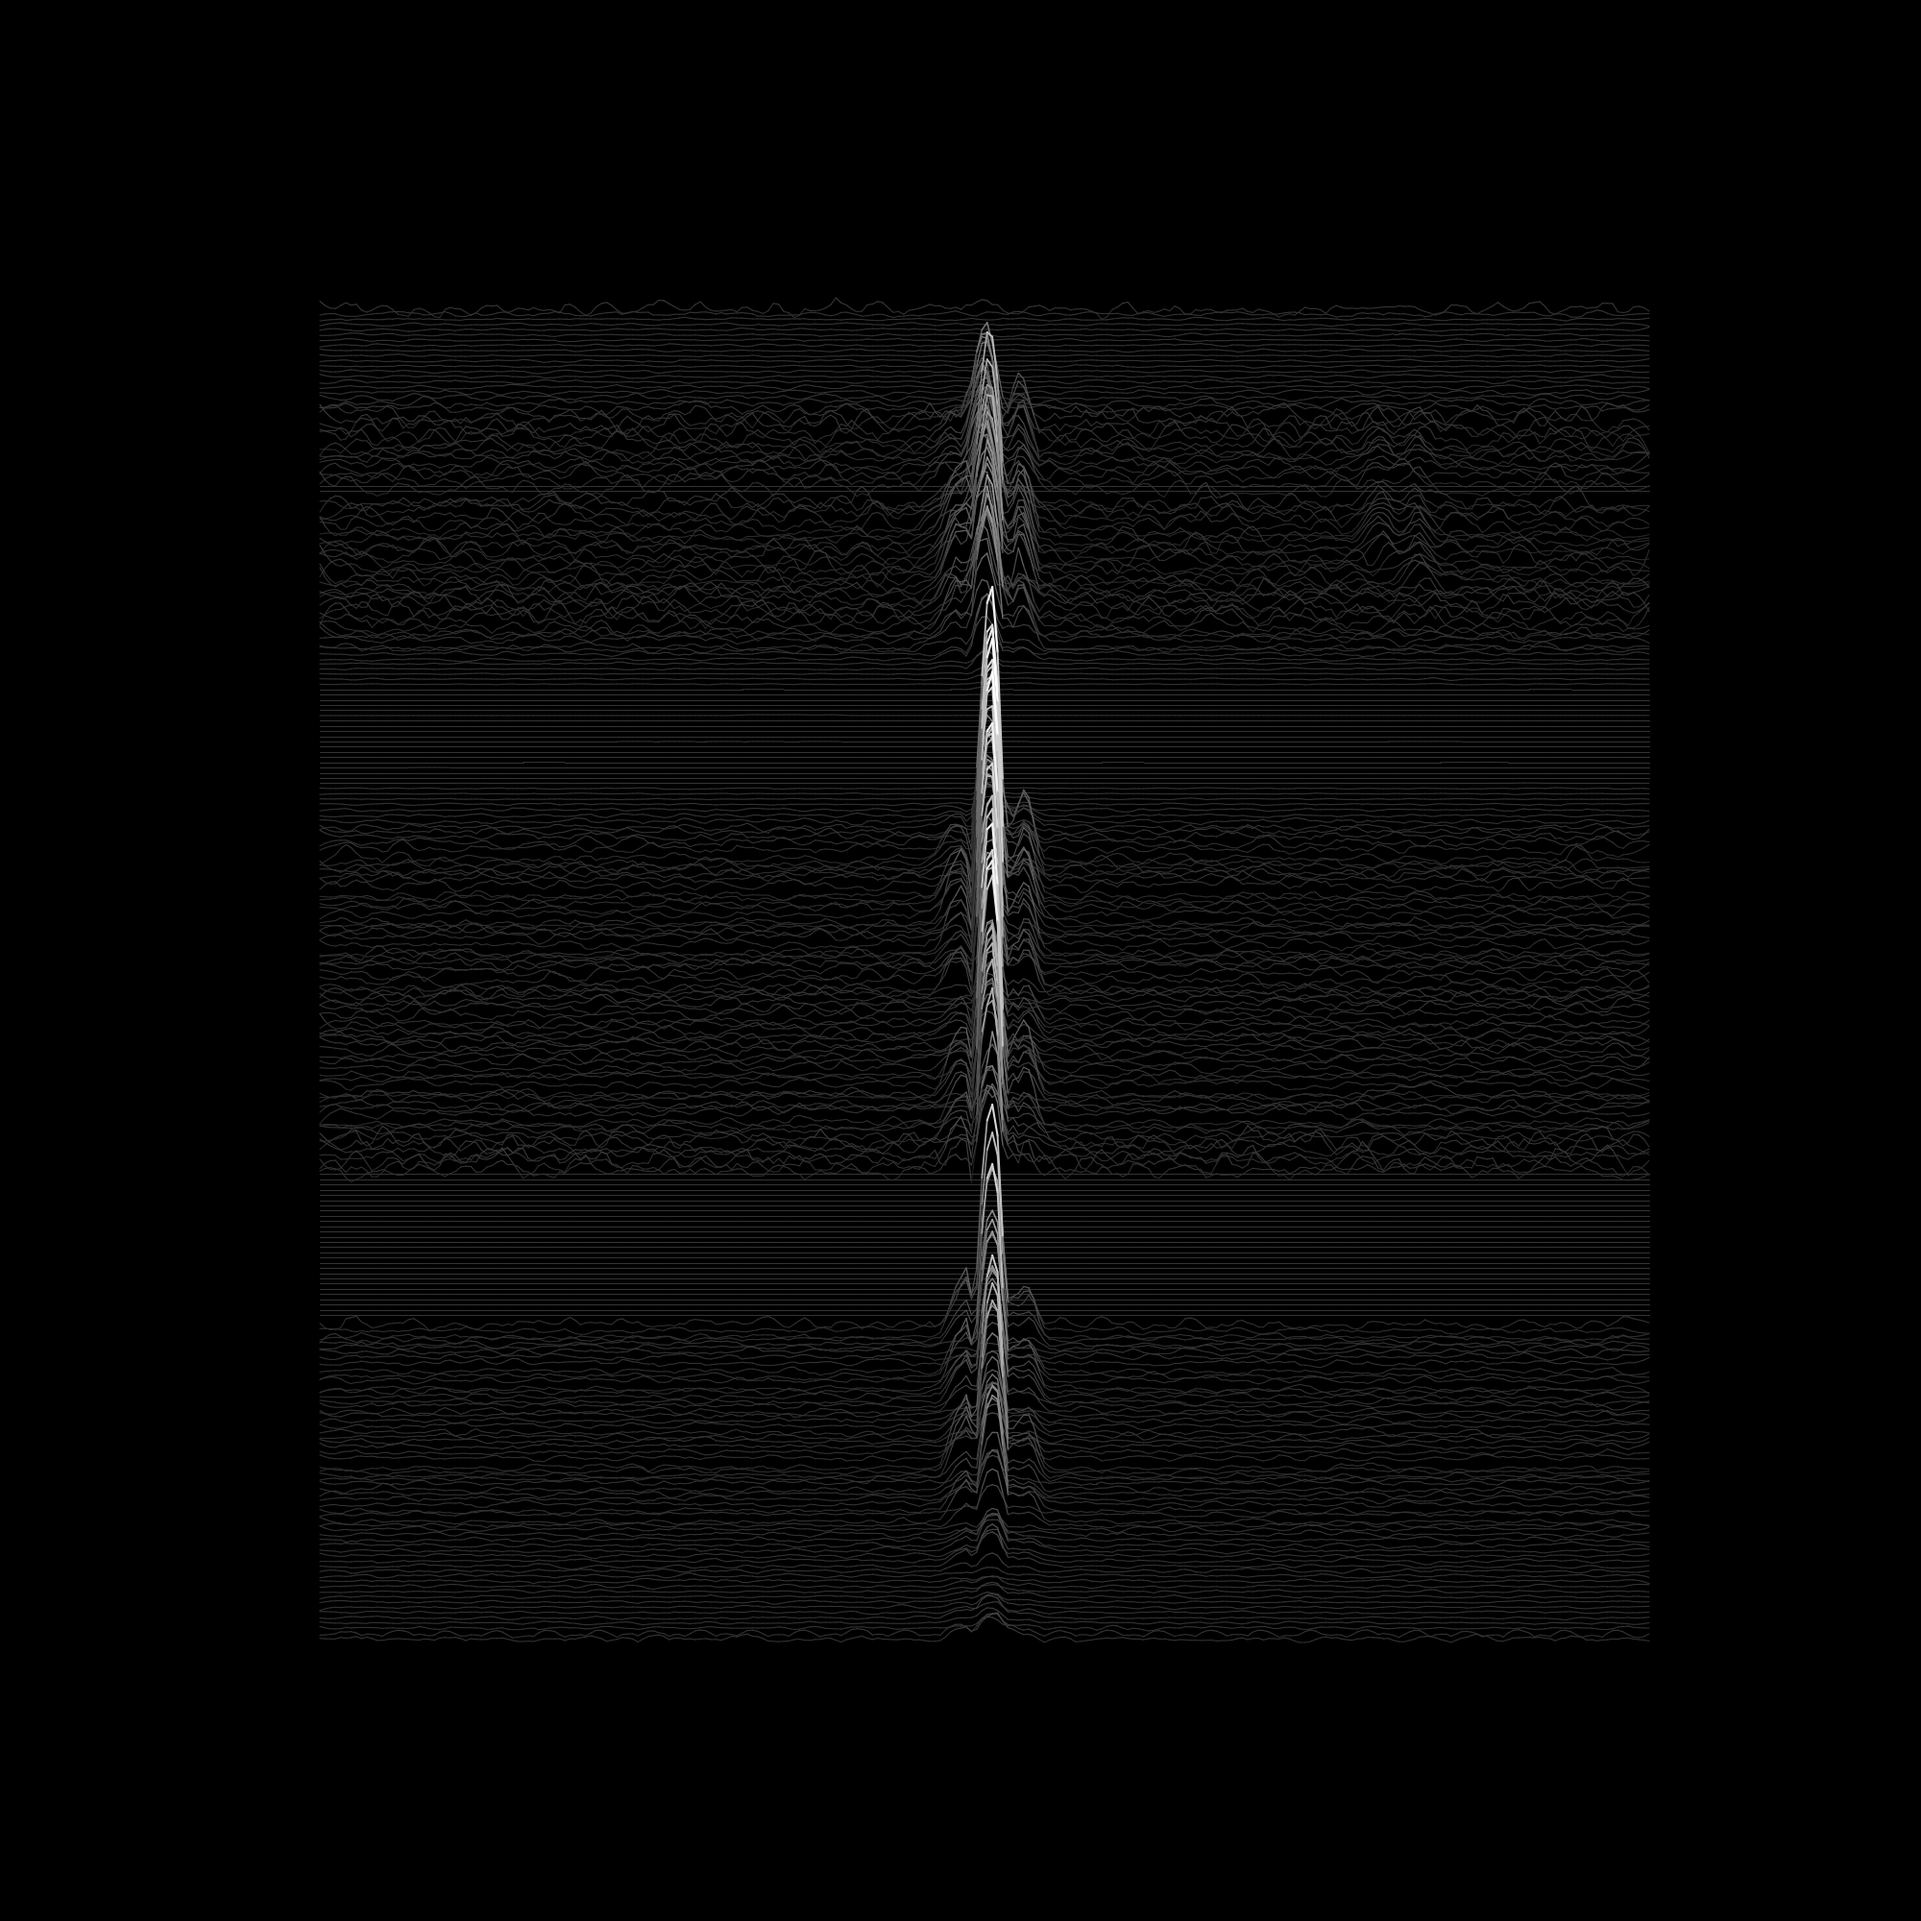
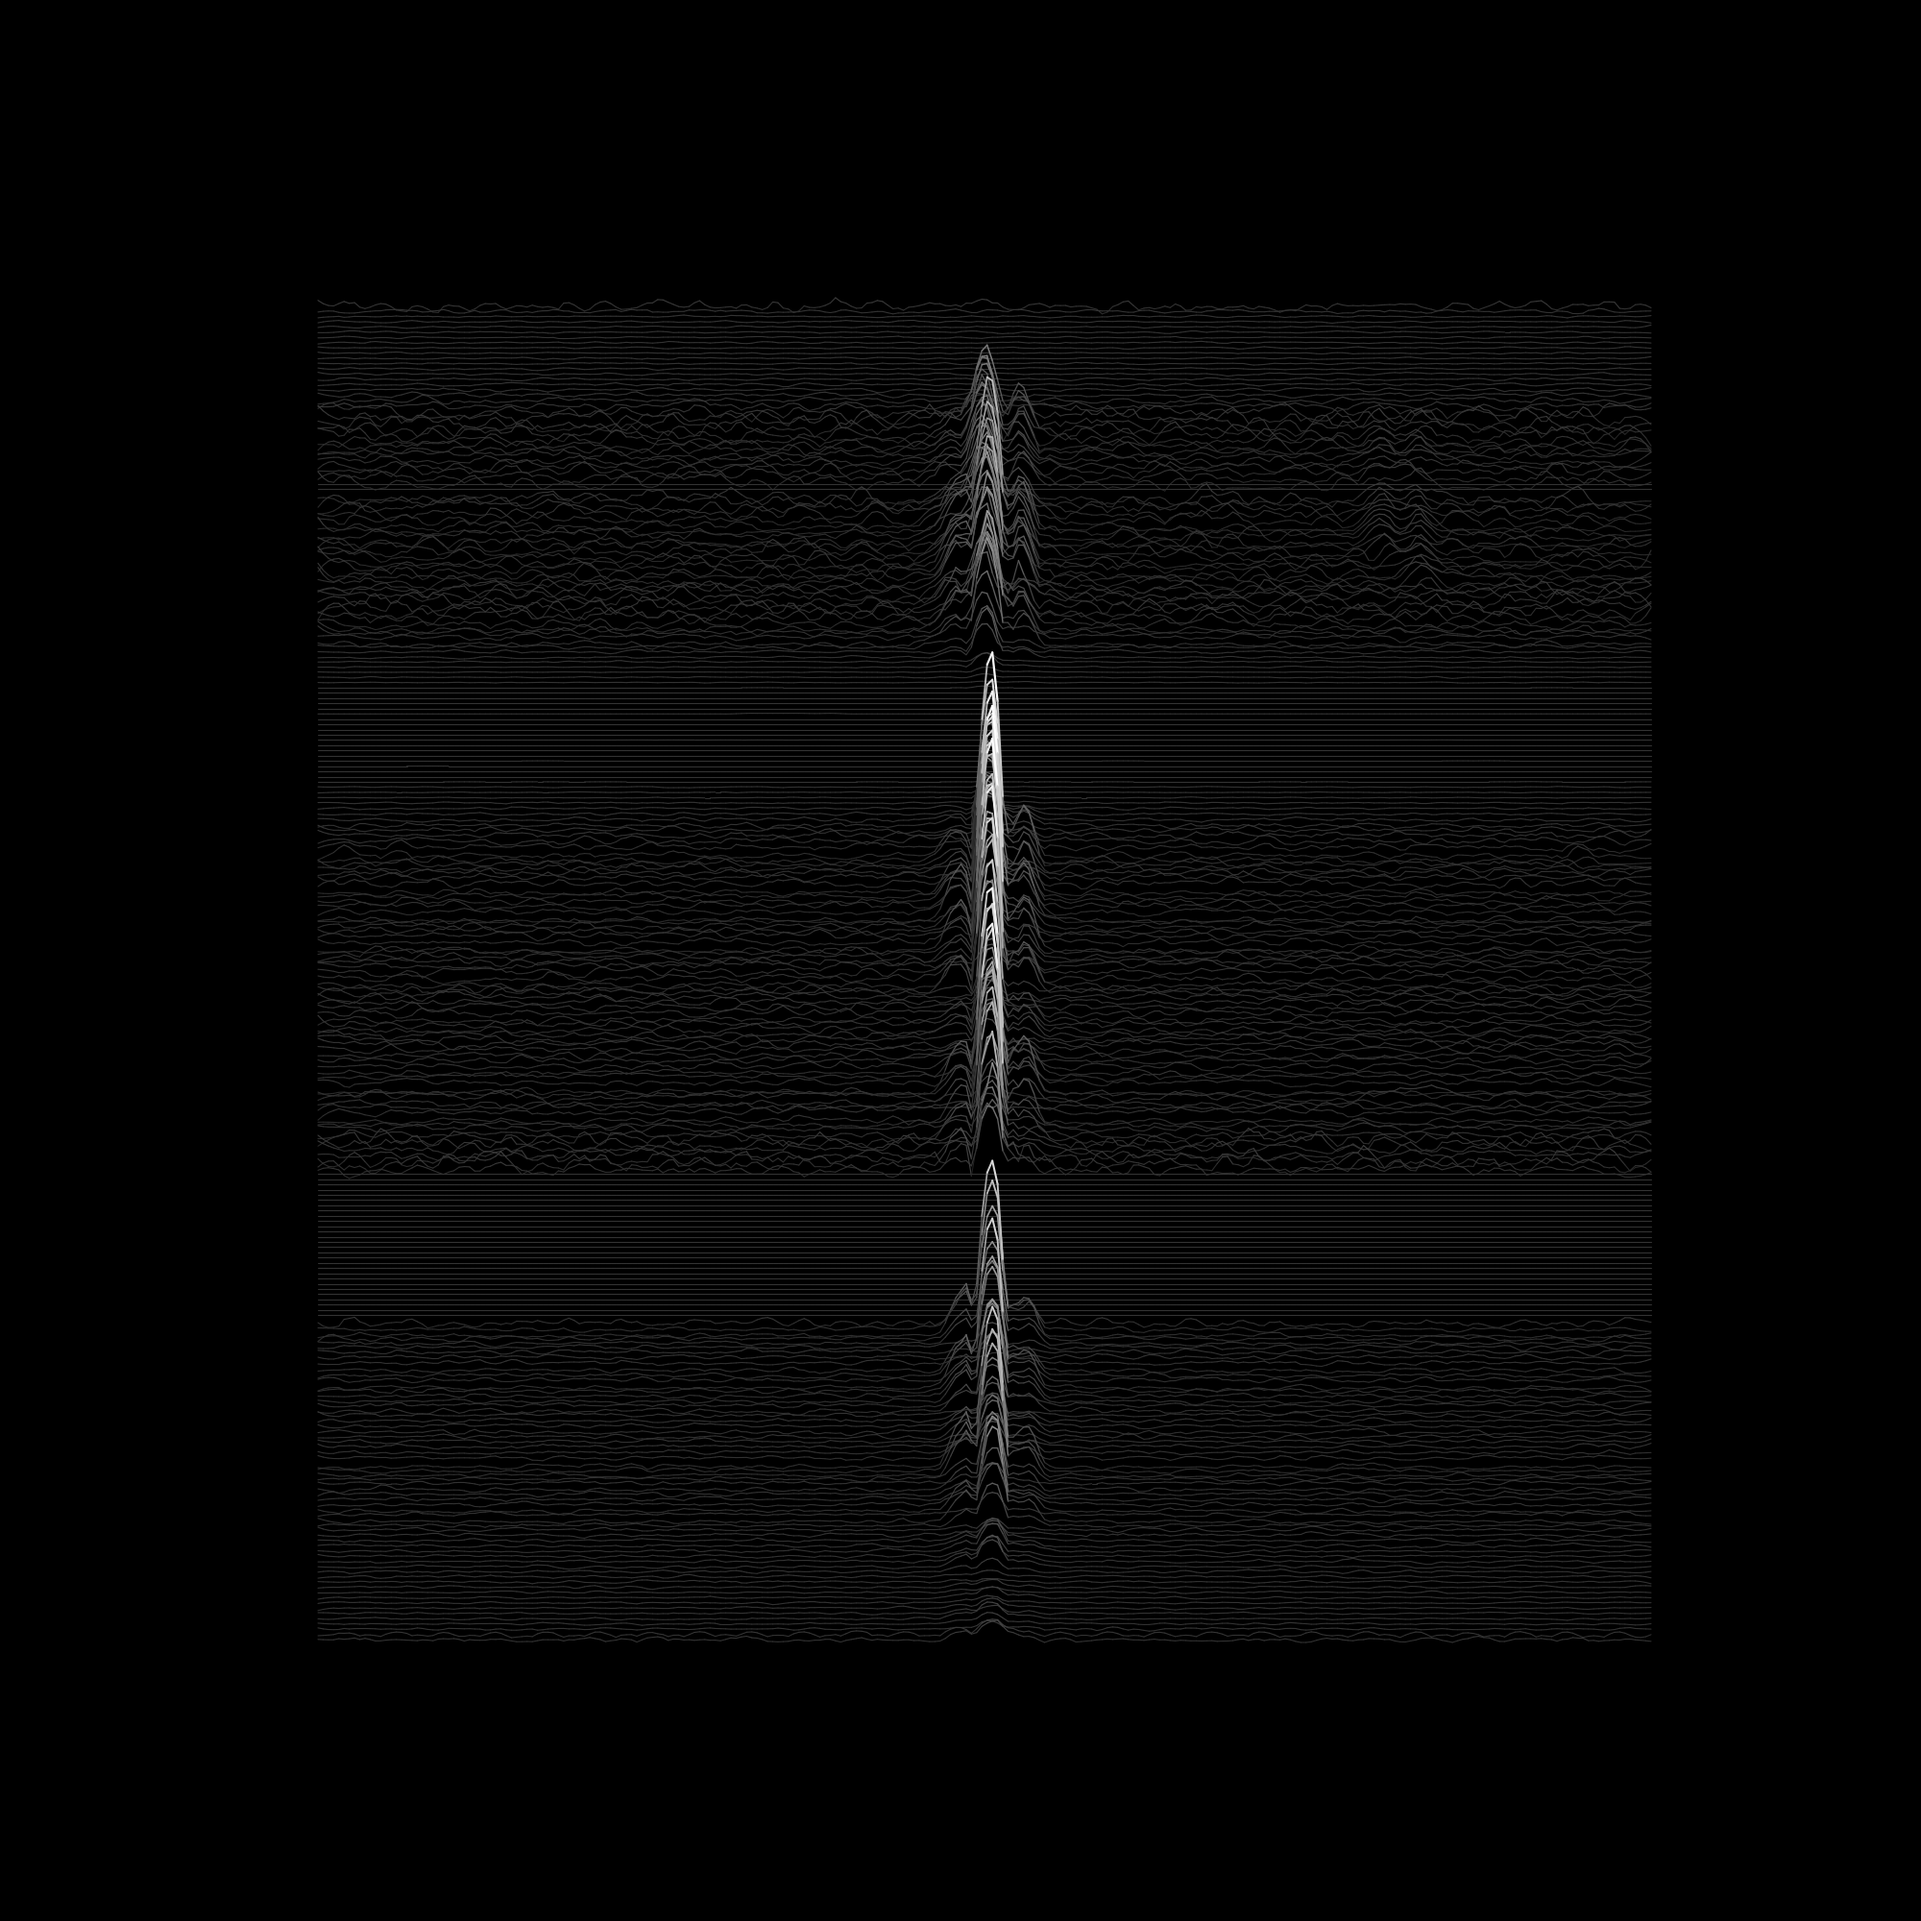
adjusted z value of example

Changed region(s): [[0.155, 0.155, 0.868, 0.868]]

diff --git a/README.md b/README.md
@@ -7,7 +7,7 @@
 [![License](https://img.shields.io/github/license/josephwkania/joy-plotter?style=flat-square)]()
 [![Tweet](https://img.shields.io/twitter/url?url=https%3A%2F%2Fgithub.com%2Fjosephwkania%2Fjoy-plotter)]()
 
-Example:  python main.py -f cand_tstart_59014.453037564723_tcand_492.0310000_dm_58.26260_snr_147.73700.h5 -z 4 
+Example:  python main.py -f cand_tstart_59014.453037564723_tcand_492.0310000_dm_58.26260_snr_147.73700.h5 -z 3 
 
 ![alt text](https://github.com/josephwkania/joy-plotter/blob/master/cand_tstart_59014.453037564723_tcand_492.0310000_dm_58.26260_snr_147.73700.png)
 
